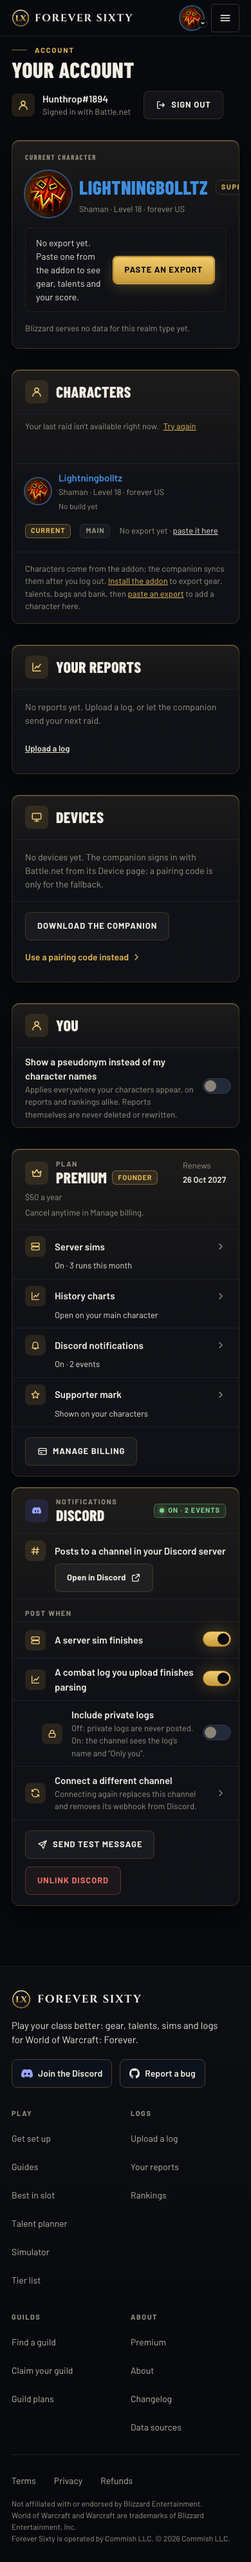
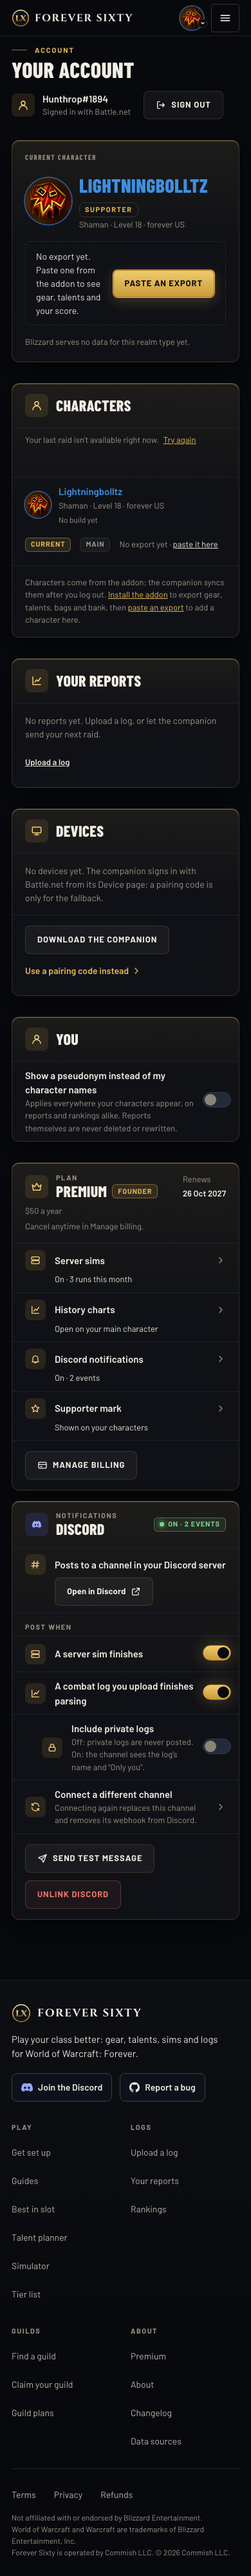
fix(web): the current-character head wraps its Supporter tag under the name at 390; the sheet drops its own max-width

diff --git a/web/src/components/character/CharacterIdentity.svelte b/web/src/components/character/CharacterIdentity.svelte
@@ -81,7 +81,7 @@
   // needs it; a row or chip name is never that prominent.
   const nameClass = $derived(
     size === 'lg' || size === 'xxl' || size === 'xl'
-      ? `w-fit ${NAME_SIZE[size]} heading-face${size === 'xl' ? ` ${XL_NAME_CAP}` : ''}`
+      ? `w-fit max-w-full [overflow-wrap:anywhere] ${NAME_SIZE[size]} heading-face${size === 'xl' ? ` ${XL_NAME_CAP}` : ''}`
       : `w-fit ${NAME_SIZE[size]} font-semibold`,
   );
   const headingClass = $derived(`m-0 p-0 font-normal${size === 'xl' ? ` ${XL_NAME_BOX}` : ''}`);
@@ -127,7 +127,7 @@
   <CharacterPortrait {character} {size} {testid} />
   <div class="flex min-w-0 flex-col gap-0.5">
     {#if supporter}
-      <div class="flex min-w-0 items-center gap-3">
+      <div class="flex min-w-0 flex-wrap items-center gap-x-3 gap-y-1">
         {@render nameElement()}
         <SupporterChip />
       </div>

diff --git a/web/src/components/ui/UiSheet.svelte b/web/src/components/ui/UiSheet.svelte
@@ -116,7 +116,7 @@
 
   <section class="flex flex-col gap-4" aria-labelledby="sheet-rows">
     <h2 id="sheet-rows" class="heading-section">Settings rows</h2>
-    <div class="grid max-w-[1100px] gap-6 md:grid-cols-2">
+    <div class="grid gap-6 md:grid-cols-2">
       <div class="flex flex-col gap-2">
         {@render label('default, hover, focus-visible, active')}
         <div class="card-surface overflow-hidden" data-testid="sheet-rows">
